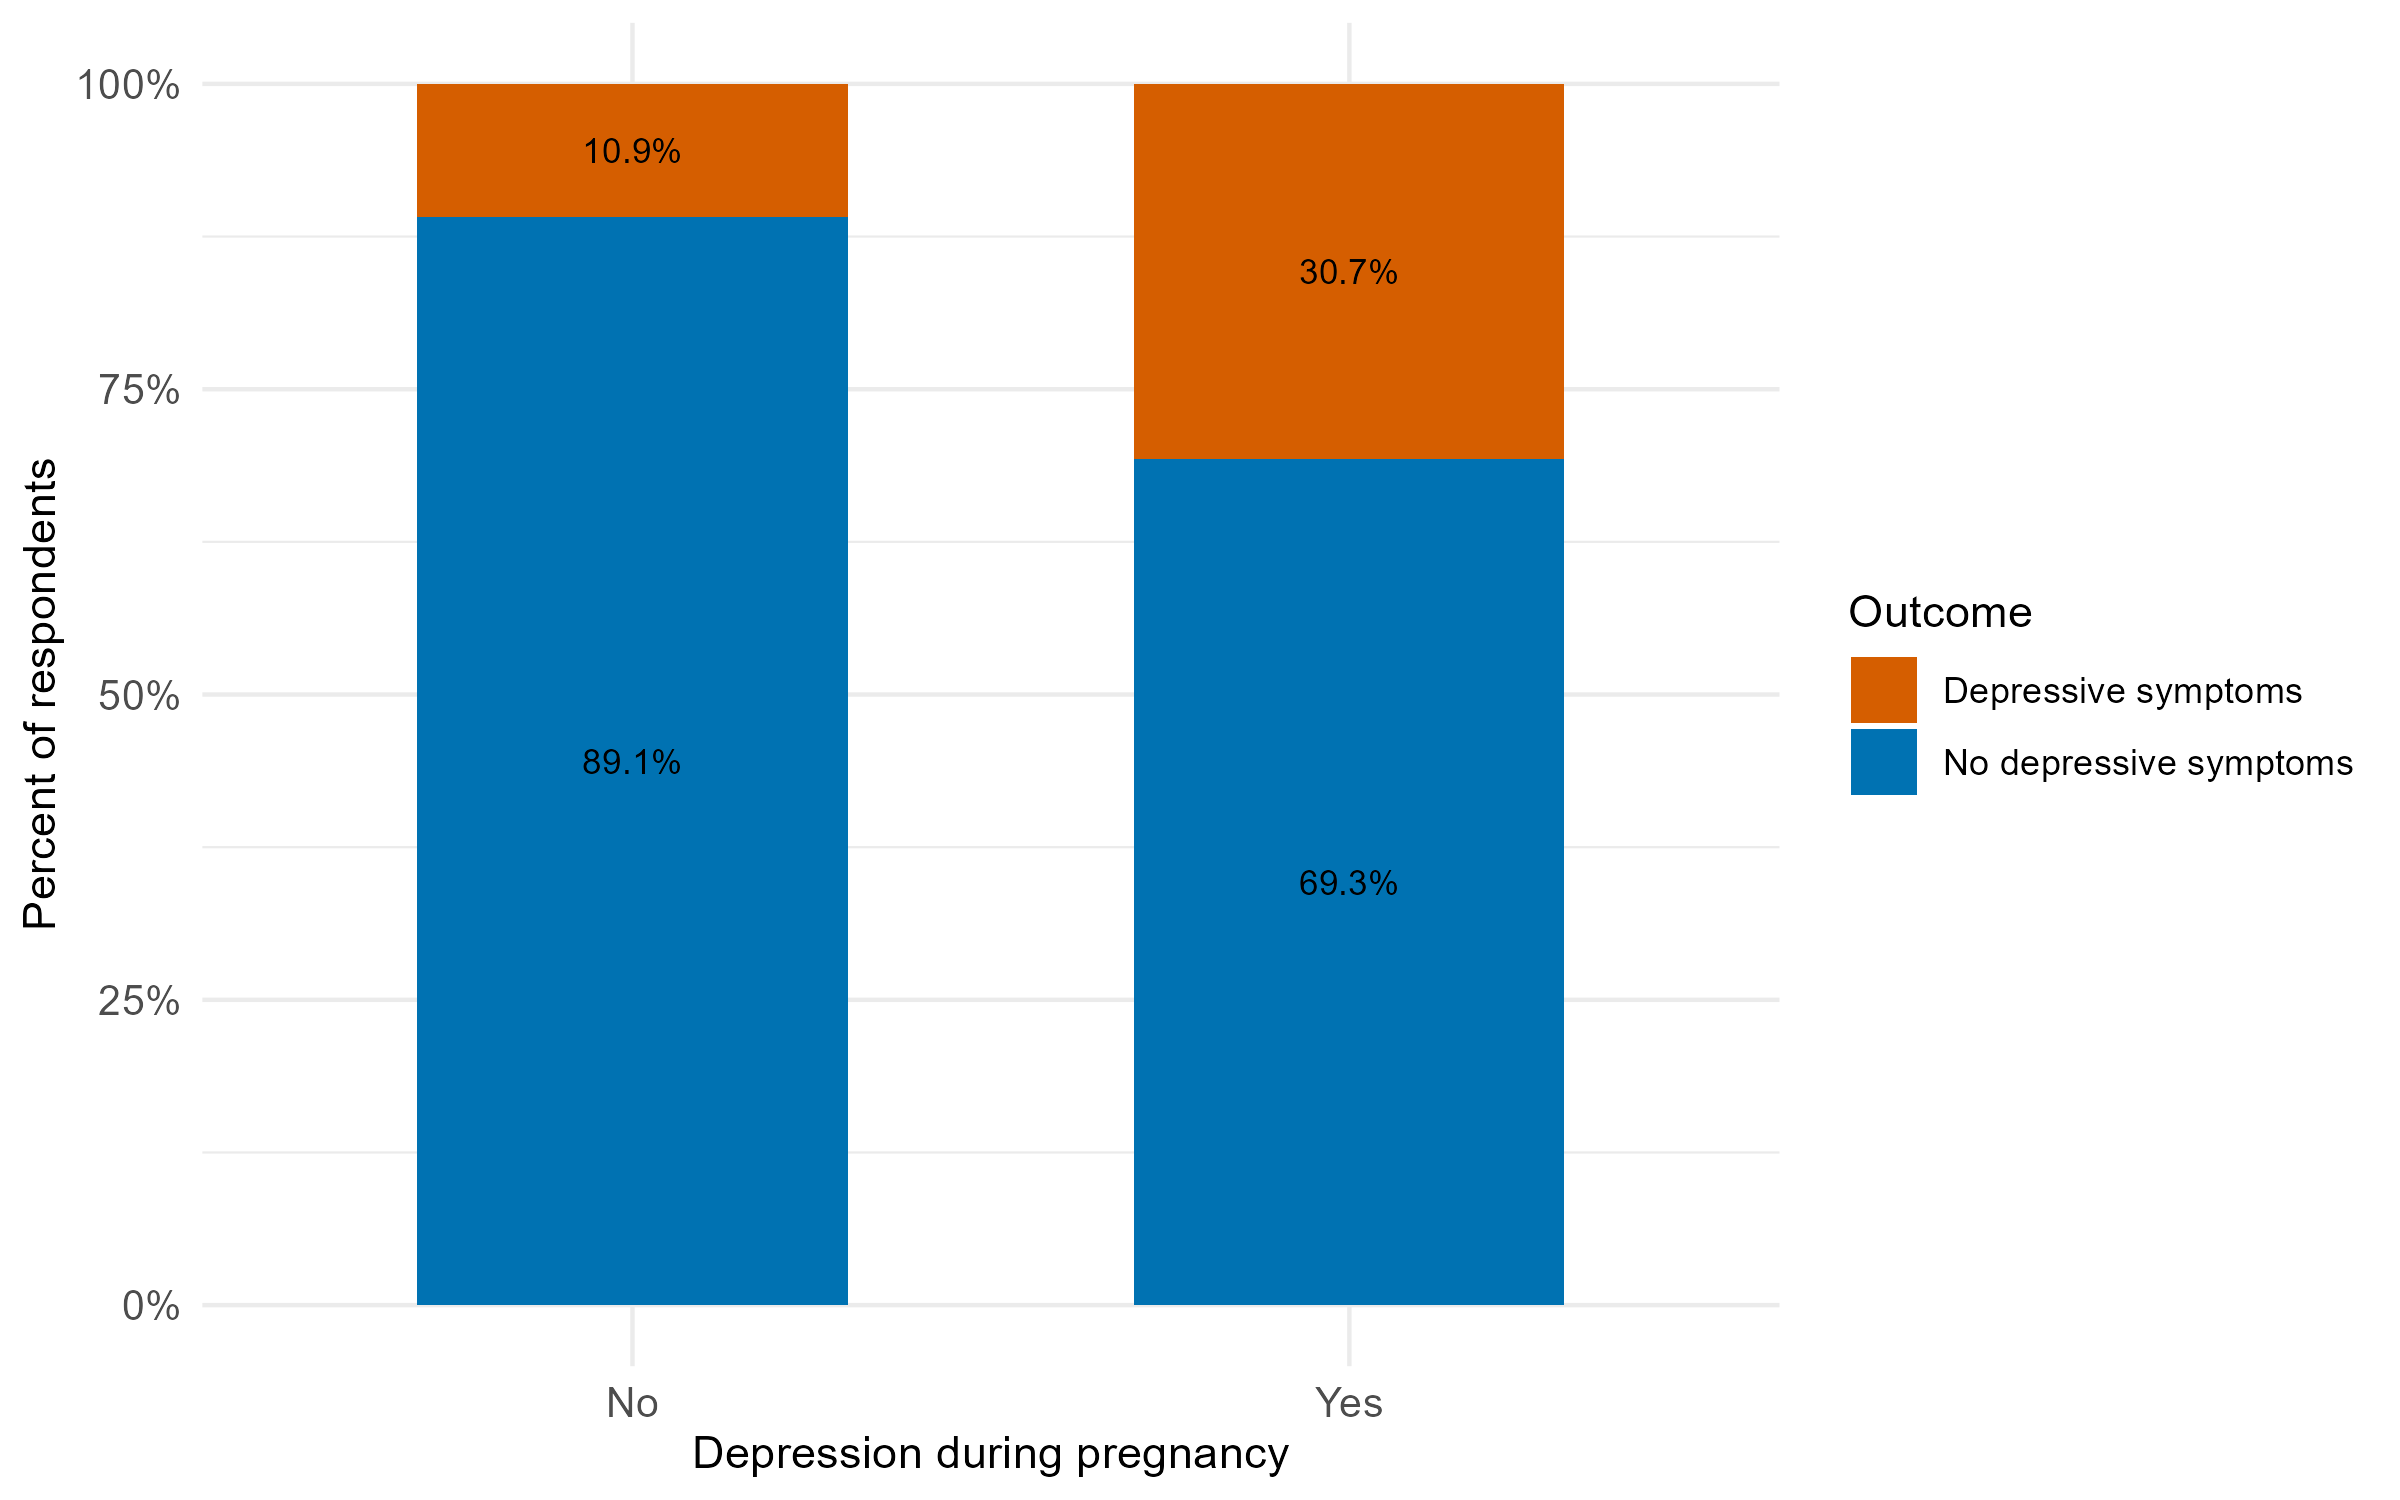
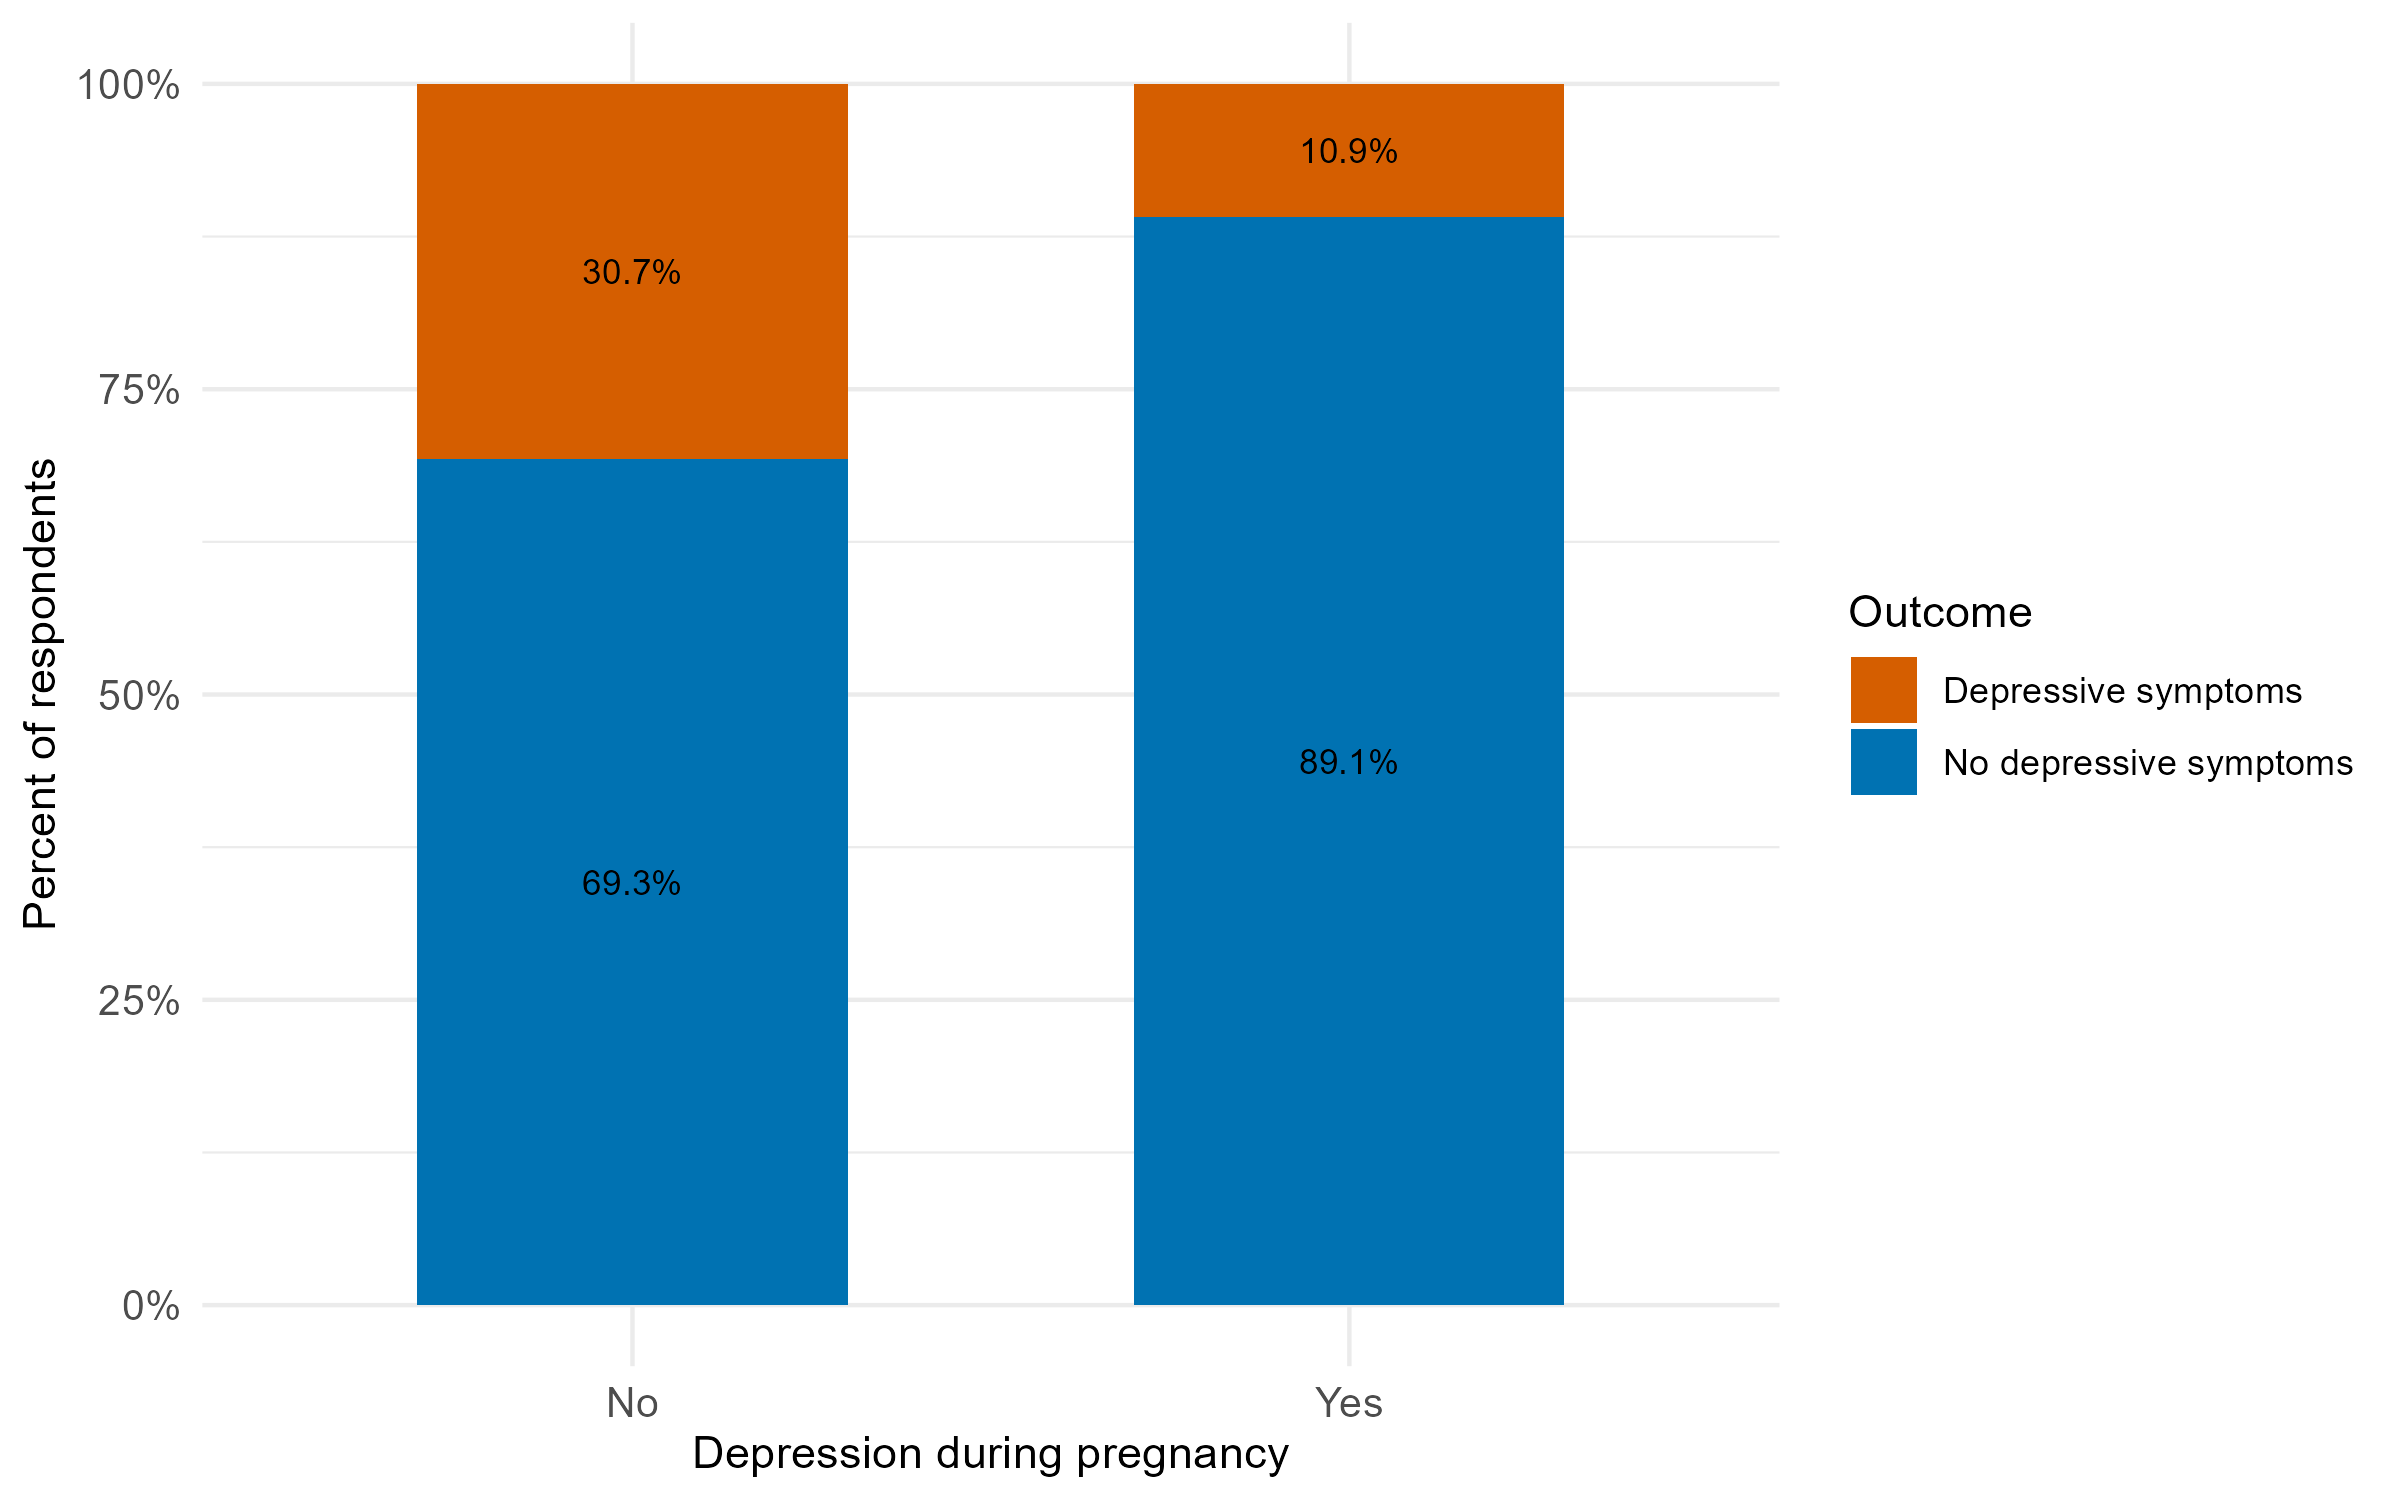
fix manuscript: correct bpg_deprs8 coding, abstract wording, and OR interpretation

diff --git a/products/manuscript/Manuscript.html b/products/manuscript/Manuscript.html
@@ -125,7 +125,7 @@ div.csl-indent {
 <p>Disclaimer: The opinions expressed in this article are the author’s own and do not reflect their employer.</p>
 <section id="abstract" class="level1" data-number="1">
 <h1 data-number="1"><span class="header-section-number">1</span> Abstract</h1>
-<p>This study looks at whether screening for mental health issues during pregnancy is related to depression after childbirth, using data from the Pregnancy Risk Assessment Monitoring System (PRAMS) Phase 8. It mainly considers women’s self-reports about their prenatal care and mental health afterward. The study used basic statistics and logistic regression to see if there’s a link between screening and feelings of depression, taking into account other important factors. It found that women who were screened had slightly lower chances of experiencing postpartum depression, but the difference was small. Since the data is based on self-reports and observational, the results should be viewed with caution.</p>
+<p>This study looks at whether screening for mental health issues during pregnancy is related to depression after childbirth, using data from the Pregnancy Risk Assessment Monitoring System (PRAMS) Phase 8. It mainly considers women’s self-reports about their prenatal care and mental health afterward. The study used basic statistics and logistic regression to see if there’s a link between screening and feelings of depression, taking into account other important factors. It found that women who were screened had lower odds of postpartum depression (OR = 0.76), a meaningful association that warrants further investigation. Since the data is based on self-reports and observational, the results should be viewed with caution.</p>
 </section>
 <section id="introduction" class="level1" data-number="2">
 <h1 data-number="2"><span class="header-section-number">2</span> Introduction</h1>
@@ -221,13 +221,13 @@ Table&nbsp;1: Study population characteristics
 </tr>
 <tr class="odd">
 <td style="text-align: left;">No</td>
-<td style="text-align: right;">195,769</td>
-<td style="text-align: right;">83.9%</td>
+<td style="text-align: right;">37,444</td>
+<td style="text-align: right;">16.1%</td>
 </tr>
 <tr class="even">
 <td style="text-align: left;">Yes</td>
-<td style="text-align: right;">37,444</td>
-<td style="text-align: right;">16.1%</td>
+<td style="text-align: right;">195,769</td>
+<td style="text-align: right;">83.9%</td>
 </tr>
 <tr class="odd">
 <td style="text-align: left;">Maternal education</td>
@@ -349,8 +349,8 @@ Table&nbsp;3: Adjusted odds ratios for factors associated with postpartum depres
 </tr>
 <tr class="even">
 <td style="text-align: left;">Depression during pregnancy</td>
-<td style="text-align: center;">0.30</td>
-<td style="text-align: center;">(0.29, 0.30)</td>
+<td style="text-align: center;">3.38</td>
+<td style="text-align: center;">(3.29, 3.47)</td>
 <td style="text-align: center;">&lt;0.001</td>
 </tr>
 <tr class="odd">
@@ -527,7 +527,7 @@ Figure&nbsp;4: ROC curve comparison: logistic regression and random forest
 <h1 data-number="6"><span class="header-section-number">6</span> Discussion</h1>
 <p>This study examined whether screening for mental health issues during pregnancy was linked to lower chances of experiencing depression after childbirth, using PRAMS data. Women who were screened had slightly lower chances of postpartum depression even after considering previous depression and education levels. However, because this was an observational study, we can’t say for sure that screening caused the lower depression rates. One possible reason is that screening might make women more aware of mental health concerns and encourage them to seek help, connecting them with support before they give birth. Another possibility is that screening detects women who were already more vulnerable to depression, which might show up later regardless of any action taken.</p>
 <p>These findings are broadly consistent with prior work showing that postpartum depressive symptoms are common and that provider screening practices vary <span class="citation" data-cites="bauman2020vitalsigns">Bauman et al. (<a href="#ref-bauman2020vitalsigns" role="doc-biblioref">2020</a>)</span>; <span class="citation" data-cites="farr2016provider">Farr et al. (<a href="#ref-farr2016provider" role="doc-biblioref">2016</a>)</span>. Clinical guidelines recommend routine screening during pregnancy and postpartum <span class="citation" data-cites="acog2023screening">American College of Obstetricians and Gynecologists (<a href="#ref-acog2023screening" role="doc-biblioref">2023</a>)</span>, and these results add to the population-level evidence on how screening relates to reported symptoms.</p>
-<p>The most noticeable finding was how strongly depression during pregnancy predicted postpartum depression symptoms (e.g., women with a history of depression were almost three times more likely to experience postpartum symptoms). This highlights the importance of considering mental health history when studying postpartum outcomes.</p>
+<p>The most noticeable finding was how strongly depression during pregnancy predicted postpartum depression symptoms (e.g., women with depression during pregnancy were more than three times more likely to experience postpartum symptoms (OR = 3.38). This highlights the importance of considering mental health history when studying postpartum outcomes.</p>
 <p>It is important to understand what this study cannot show. Since the data are based on a single point in time and rely on self-reports, we can’t say whether screening itself led to better results. Women who were screened might also have had better access to healthcare or more supportive providers, which could influence postpartum mental health independently. <strong>Strengths:</strong> PRAMS is a large dataset spanning multiple states, providing sufficient information for detailed analysis and making the results more applicable across different areas than studies limited to a single site.</p>
 <p><strong>Limitations:</strong> The data are based on participants’ self-reports and may be affected by memory errors. The measure used for postpartum depression symptoms is not a hospital diagnosis. Because the study looks at data from one point in time, it’s hard to say what causes what. Factors we did not measure, such as whether someone has insurance, social support, or how healthcare providers deliver care, might influence the results. In future studies, including details such as insurance status, access to mental health care, and income level could be helpful. Using the survey’s weighting factors would also give a better picture of how the results apply to the wider population.</p>
 </section>